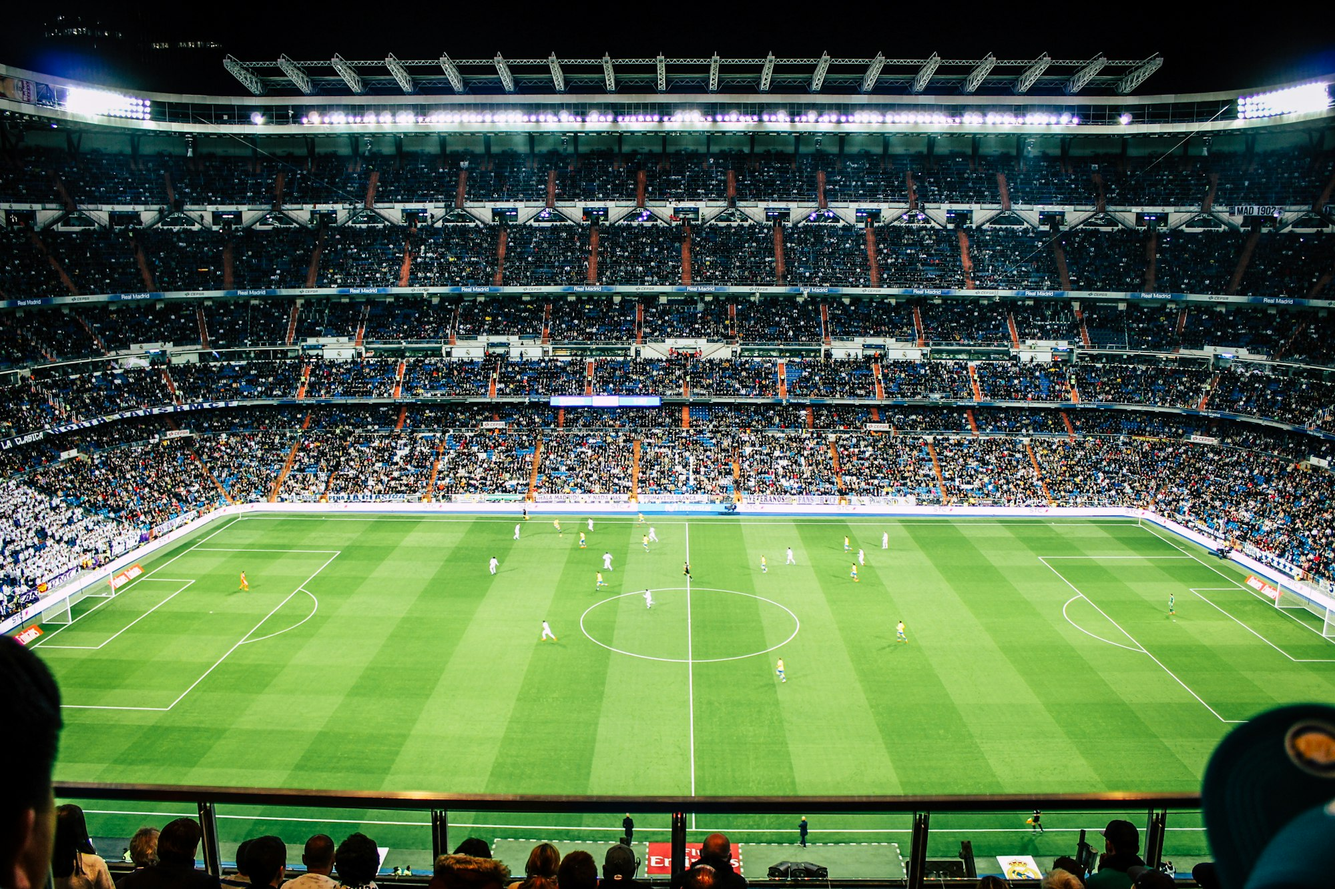
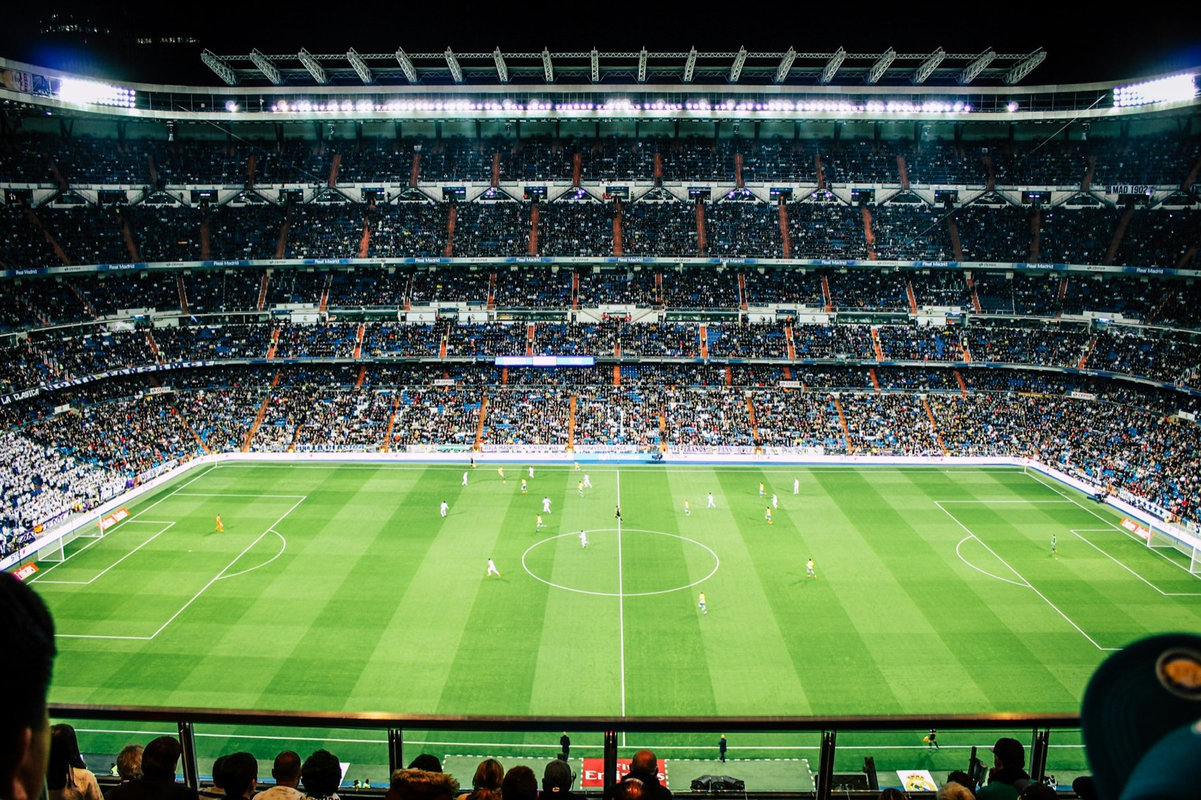
polish: Phase 1D — performance, consistency, and craft pass
Performance:
- Code-split all authenticated routes via React.lazy + Suspense — the
  landing page no longer ships Recharts or app pages. Main bundle
  1,240KB → 590KB (168KB gzip); charts load on first app navigation
- Stadium images resized/recompressed: 2.7MB → 1.5MB total
- Marquee converted from a Framer rAF loop to a pure CSS animation
  (zero main-thread cost, reduced-motion handled in CSS)

Brand & consistency:
- New branded Loader (PITCHIQ wordmark + sweeping accent underline)
  replaces generic spinners that said "Loading MyFutbolPro…" (!)
- Hero stat-row borders migrated off stale purple to the border token

SEO / social:
- Open Graph + Twitter card meta (stadium hero as share image),
  theme-color, sharper title ("PitchIQ — Know Your Game") and
  description

Accessibility:
- Marquee strip aria-hidden (screen readers no longer hear the ticker
  read twice); loader has role=status

diff --git a/client/src/App.tsx b/client/src/App.tsx
@@ -1,29 +1,33 @@
 import { BrowserRouter, Routes, Route, Navigate } from 'react-router-dom'
 import { AuthProvider, useAuth } from '@/hooks/useAuth'
 import { Layout } from '@/components/Layout'
+import { Loader } from '@/components/Loader'
 import ProGate from '@/components/ProGate'
 import Landing from '@/pages/Landing'
-import Onboarding from '@/pages/Onboarding'
-import Dashboard from '@/pages/Dashboard'
-import Matches from '@/pages/Matches'
-import Analytics from '@/pages/Analytics'
-import Goals from '@/pages/Goals'
-import Profile from '@/pages/Profile'
-import AICoach from '@/pages/AICoach'
-import Achievements from '@/pages/Achievements'
-import RecruitProfile from '@/pages/RecruitProfile'
-import Highlights from '@/pages/Highlights'
-import ScoutView from '@/pages/ScoutView'
-import Injuries from '@/pages/Injuries'
-import MatchCalendar from '@/pages/MatchCalendar'
-import SeasonArchive from '@/pages/SeasonArchive'
-import TrainingPlan from '@/pages/TrainingPlan'
-import Pricing from '@/pages/Pricing'
-import SubscribeSuccess from '@/pages/SubscribeSuccess'
 import TutorialOverlay, { TOUR_KEY } from '@/components/TutorialOverlay'
 import { Ambient } from '@/design/Ambient'
-import { useState } from 'react'
+import { useState, lazy, Suspense } from 'react'
 import type { ReactNode } from 'react'
+
+/* Authenticated pages are code-split — the landing page never ships them
+   (or their chart library). Each loads on first navigation. */
+const Onboarding      = lazy(() => import('@/pages/Onboarding'))
+const Dashboard       = lazy(() => import('@/pages/Dashboard'))
+const Matches         = lazy(() => import('@/pages/Matches'))
+const Analytics       = lazy(() => import('@/pages/Analytics'))
+const Goals           = lazy(() => import('@/pages/Goals'))
+const Profile         = lazy(() => import('@/pages/Profile'))
+const AICoach         = lazy(() => import('@/pages/AICoach'))
+const Achievements    = lazy(() => import('@/pages/Achievements'))
+const RecruitProfile  = lazy(() => import('@/pages/RecruitProfile'))
+const Highlights      = lazy(() => import('@/pages/Highlights'))
+const ScoutView       = lazy(() => import('@/pages/ScoutView'))
+const Injuries        = lazy(() => import('@/pages/Injuries'))
+const MatchCalendar   = lazy(() => import('@/pages/MatchCalendar'))
+const SeasonArchive   = lazy(() => import('@/pages/SeasonArchive'))
+const TrainingPlan    = lazy(() => import('@/pages/TrainingPlan'))
+const Pricing         = lazy(() => import('@/pages/Pricing'))
+const SubscribeSuccess = lazy(() => import('@/pages/SubscribeSuccess'))
 
 function ProtectedRoute({ children }: { children: ReactNode }) {
   const { user, loading, isDemoMode } = useAuth()
@@ -35,14 +39,7 @@ function ProtectedRoute({ children }: { children: ReactNode }) {
   })
 
   if (loading) {
-    return (
-      <div className="flex h-screen items-center justify-center bg-slate-950">
-        <div className="flex flex-col items-center gap-4">
-          <div className="h-8 w-8 animate-spin rounded-full border-2 border-slate-700 border-t-pitch-500" />
-          <p className="text-sm text-slate-500">Loading MyFutbolPro…</p>
-        </div>
-      </div>
-    )
+    return <Loader />
   }
 
   if (!user && !isDemoMode) return <Navigate to="/" replace />
@@ -63,20 +60,14 @@ function AppRoutes() {
   const { user, loading, isDemoMode } = useAuth()
 
   if (loading) {
-    return (
-      <div className="flex h-screen items-center justify-center bg-slate-950">
-        <div className="flex flex-col items-center gap-4">
-          <div className="h-8 w-8 animate-spin rounded-full border-2 border-slate-700 border-t-pitch-500" />
-          <p className="text-sm text-slate-500">Loading MyFutbolPro…</p>
-        </div>
-      </div>
-    )
+    return <Loader />
   }
 
   const isAuthed = !!user || isDemoMode
   const isOnboarded = user ? localStorage.getItem(`onboarded_${user.uid}`) === 'true' : true
 
   return (
+    <Suspense fallback={<Loader />}>
     <Routes>
       <Route path="/" element={
         !isAuthed ? <Landing /> :
@@ -108,6 +99,7 @@ function AppRoutes() {
       <Route path="/scout/:encoded"    element={<ScoutView />} />
       <Route path="*" element={<Navigate to="/" replace />} />
     </Routes>
+    </Suspense>
   )
 }
 

diff --git a/client/src/pages/Landing.tsx b/client/src/pages/Landing.tsx
@@ -284,7 +284,7 @@ export default function Landing() {
 
           {/* Stat row */}
           <motion.div className="mt-14 grid grid-cols-2 sm:grid-cols-4 gap-0 border-t"
-            style={{ borderColor: 'rgba(60,48,80,0.7)' }}
+            style={{ borderColor: 'rgba(37,43,77,0.8)' }}
             initial={{ opacity: 0 }} animate={{ opacity: 1 }} transition={{ delay: 1.1, duration: 0.9 }}>
             {[
               { n: 2400, s: '+', l: 'Matches Logged' },
@@ -292,7 +292,7 @@ export default function Landing() {
               { n: 98,   s: '%', l: 'Retention' },
               { n: 500,  s: '+', l: 'Active Players' },
             ].map(({ n, s, l }, i) => (
-              <div key={l} className="py-6 pr-6" style={{ borderRight: i < 3 ? `1px solid rgba(60,48,80,0.7)` : 'none', paddingLeft: i > 0 ? '1.5rem' : 0 }}>
+              <div key={l} className="py-6 pr-6" style={{ borderRight: i < 3 ? `1px solid rgba(37,43,77,0.8)` : 'none', paddingLeft: i > 0 ? '1.5rem' : 0 }}>
                 <div style={{ ...BC, fontSize: '2.5rem', fontWeight: 800, color: CREAM, letterSpacing: '-0.03em', lineHeight: 1, fontVariantNumeric: 'tabular-nums' }}>
                   <Counter to={n} suffix={s} />
                 </div>
@@ -311,16 +311,15 @@ export default function Landing() {
         </motion.div>
       </section>
 
-      {/* ── MARQUEE ───────────────────────────────────────────────────────── */}
-      <div style={{ background: ACCENT, overflow: 'hidden', padding: '14px 0' }}>
-        <motion.div className="flex gap-12 whitespace-nowrap"
-          animate={reduced ? undefined : { x: [0, -1200] }} transition={{ duration: 22, repeat: Infinity, ease: 'linear' }}>
-          {[...TICKER, ...TICKER, ...TICKER].map((t, i) => (
+      {/* ── MARQUEE — pure CSS, decorative ─────────────────────────────────── */}
+      <div aria-hidden style={{ background: ACCENT, overflow: 'hidden', padding: '14px 0' }}>
+        <div className="marquee-track flex w-max gap-12 whitespace-nowrap pr-12">
+          {[...TICKER, ...TICKER].map((t, i) => (
             <span key={i} style={{ ...BC, fontWeight: 700, fontSize: '0.75rem', letterSpacing: '0.18em', color: BASE }}>
               {t} ·
             </span>
           ))}
-        </motion.div>
+        </div>
       </div>
 
       {/* ═══ THE STORY — ten chapters, problem → proof → action ═══════════ */}

diff --git a/client/index.html b/client/index.html
@@ -4,8 +4,17 @@
     <meta charset="UTF-8" />
     <link rel="icon" type="image/svg+xml" href="/favicon.svg" />
     <meta name="viewport" content="width=device-width, initial-scale=1.0" />
-    <meta name="description" content="Soccer Performance Analytics — Track, analyze, and improve your game with data-driven insights." />
-    <title>PitchIQ — Soccer Performance Analytics</title>
+    <meta name="description" content="Soccer performance analytics for competitive youth players. Log every match, track every trend, and get AI coaching built from your own numbers." />
+    <title>PitchIQ — Know Your Game</title>
+    <meta name="theme-color" content="#0a0d1c" />
+    <meta property="og:type" content="website" />
+    <meta property="og:title" content="PitchIQ — Know Your Game" />
+    <meta property="og:description" content="Soccer performance analytics for competitive youth players. Log every match, track every trend, get AI coaching built from your own numbers." />
+    <meta property="og:image" content="/img/stadium-hero.jpg" />
+    <meta name="twitter:card" content="summary_large_image" />
+    <meta name="twitter:title" content="PitchIQ — Know Your Game" />
+    <meta name="twitter:description" content="Log every match. Track every trend. Get AI coaching built from your own numbers." />
+    <meta name="twitter:image" content="/img/stadium-hero.jpg" />
     <link rel="preload" as="image" href="/img/stadium-hero.jpg" fetchpriority="high" />
     <link rel="preconnect" href="https://fonts.googleapis.com" />
     <link rel="preconnect" href="https://fonts.gstatic.com" crossorigin />

diff --git a/client/src/index.css b/client/src/index.css
@@ -105,6 +105,24 @@
     font-variant-numeric: tabular-nums;
     letter-spacing: -0.03em;
   }
+
+  /* Loader underline sweep */
+  .loader-sweep { animation: loaderSweep 1.1s cubic-bezier(0.16,1,0.3,1) infinite; }
+  @keyframes loaderSweep {
+    0%   { transform: translateX(-120%); }
+    100% { transform: translateX(400%); }
+  }
+
+  /* Marquee — pure CSS so it never touches the JS main thread */
+  .marquee-track { animation: marquee 22s linear infinite; will-change: transform; }
+  @keyframes marquee {
+    from { transform: translateX(0); }
+    to   { transform: translateX(-50%); }
+  }
+  @media (prefers-reduced-motion: reduce) {
+    .marquee-track { animation: none; }
+    .loader-sweep { animation: none; transform: none; width: 100%; }
+  }
 }
 
 /* ── Light Mode ──────────────────────────────────────────────────────────── */

diff --git a/client/src/components/Loader.tsx b/client/src/components/Loader.tsx
@@ -1,0 +1,14 @@
+/* Branded full-screen loader — wordmark with a sweeping accent underline.
+   Used for auth resolution and route-level code-split boundaries. */
+export function Loader() {
+  return (
+    <div className="flex h-screen items-center justify-center bg-slate-950" role="status" aria-label="Loading">
+      <div className="flex flex-col items-center gap-4">
+        <span className="font-display text-xl font-bold tracking-[0.18em] text-slate-200">PITCHIQ</span>
+        <div className="relative h-[2px] w-28 overflow-hidden rounded-full bg-slate-800">
+          <div className="loader-sweep absolute inset-y-0 w-1/3 rounded-full bg-pitch-500" />
+        </div>
+      </div>
+    </div>
+  )
+}
